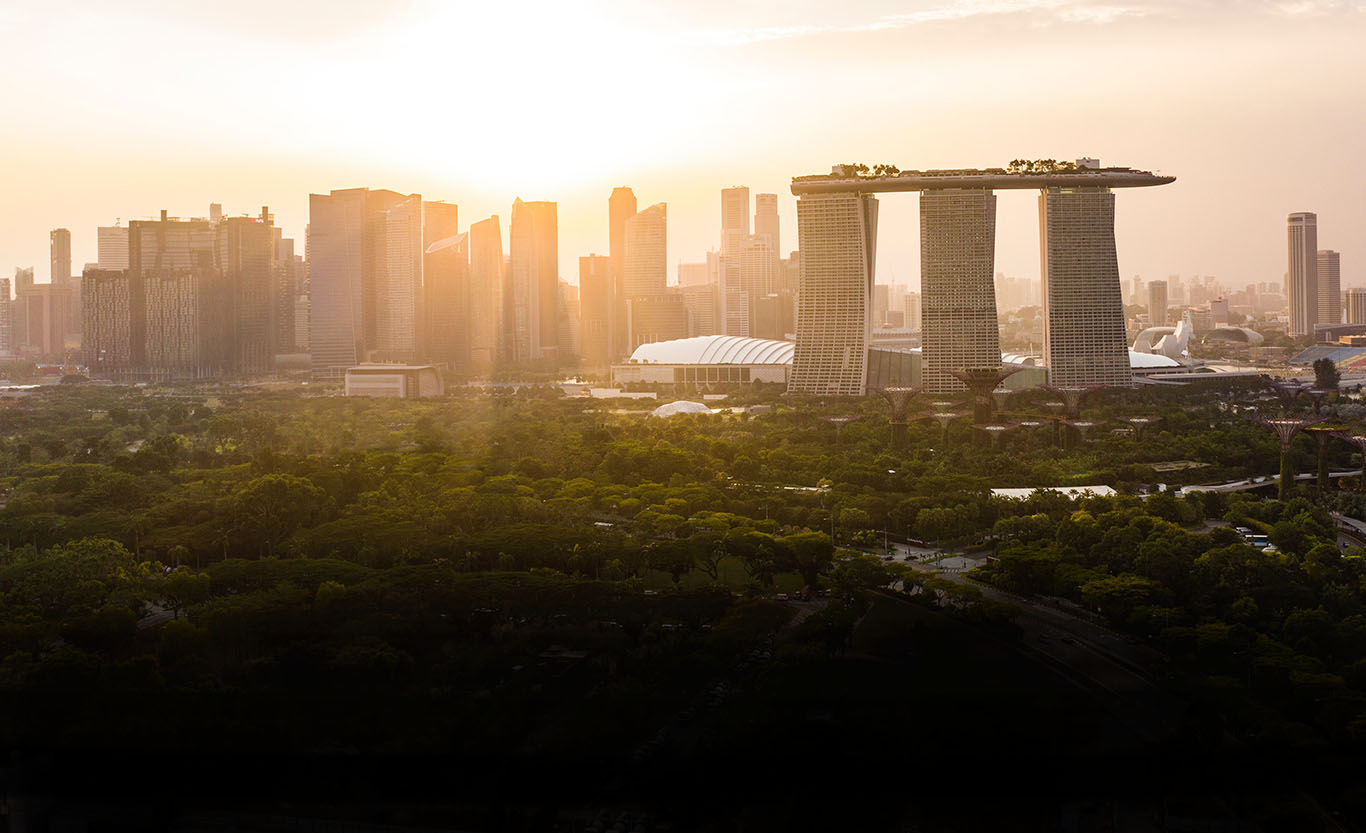
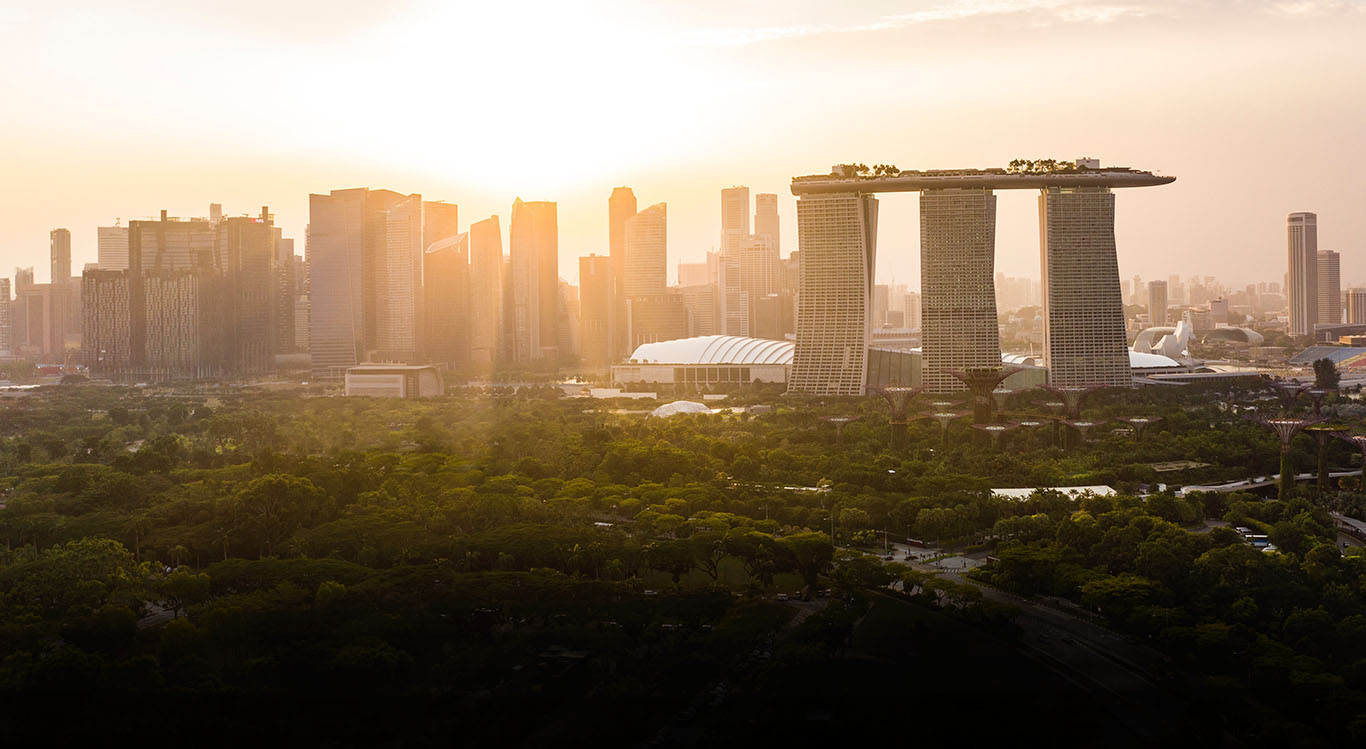
Populære destinationer sektion tilføjet

Changed region(s): [[0.0, 0.1842, 1.0, 0.8598]]

diff --git a/styles.css b/styles.css
@@ -11,6 +11,36 @@ a {
     text-decoration: none;
     color: #b5ff90;
 }
+h1 {
+    font-size: 65px;
+    text-transform: uppercase;
+    margin-bottom: 0;
+    font-weight: 300;
+}
+
+h2 {
+    font-weight: 300;
+    font-size: 35px;
+    text-transform: uppercase;
+    text-align: center;
+    
+}
+
+h3 {
+    font-size: 35px;
+    font-weight: 300;
+    margin: 0;
+    
+}
+
+hr {
+    width: 200px;
+    height: 3px;
+    border: 0;
+    border-top: 3px solid #b5ff90;
+    margin-top: 0;
+    margin-left: 320px;
+}
 
 /*HEADER*/
 header { 
@@ -48,9 +78,9 @@ nav a {
 /*FORSIDE*/
 
 #forside_singapore { 
-    height: 900px;
+    height: 750px;
     background-image: url(images/singapore_forside.jpg);
-    background-size: 1366px auto;
+    background-size: 100% auto;
     background-repeat: no-repeat;
 }
 
@@ -63,12 +93,7 @@ top: 250px;
 left: 100px;
 }
 
-h1 {
-    font-size: 65px;
-    text-transform: uppercase;
-    margin-bottom: 0;
-    font-weight: 300;
-}
+
 
 #forside_singapore_tekst p {
     width: 20%;
@@ -83,5 +108,87 @@ h1 {
     font-size: 16px;
     margin-top: 30px;
     
+    
+}
+
+/*POPULÆRE DESTINATIONER*/
+
+.tre_kort {
+    display: flex;
+    justify-content: space-between;
+}
+
+.tre_kort a {
+    color: white;
+}
+#kort_norge {
+    background-image: url(images/norge.png);
+    background-size: cover;
+    background-repeat: no-repeat;
+   width: 65%;
+   margin-top: 75px;
+   margin-right: 45px;
+
+}
+
+.tre_kort_stor_tekst {
+    position: relative;
+    top: 430px;
+    left:200px;
+}
+.tre_kort_stor_tekst h3 {
+    font-size: 45px;
+
+}
+#kort_norge hr {
+    position: relative;
+    top: 435px;
+    right: 350px;
+    width: 310px;
+}
+
+#kort_australien {
+    background-image: url(images/australien.png);
+    background-repeat: no-repeat;
+    background-size: cover;
+    flex-wrap: wrap;
+    width: 500px;
+    height: 320px;
+    margin-top: 100px;
+    
+
+}
+#kort_groenland {
+    background-image: url(images/groenland.jpg);
+    background-repeat: no-repeat;
+    background-size: cover;
+    flex-wrap: wrap;
+    width: 500px;
+    height: 320px;
+    margin-top: 25px;
+
+}
+
+.tre_kort p {
+    width: 200px;
+    font-size: 13px;
+    margin: 0;
+}
+
+.to_kort_tekst {
+    border-left: 3px solid #b5ff90;
+    position: relative;
+    top: 135px;
+    padding-left: 10px;
+    margin-left: 20px;
+}
+
+
+
+/*MEST LÆSTE*/
+
+
+.mest_læste {
+    height: 900px;
     
 }

diff --git a/index.html b/index.html
@@ -26,6 +26,8 @@
         
     </header>
     <main>
+
+    <!-- 1. SEKTION OM SINGAPORE -->
         <section id="forside_singapore">
             <div id="forside_singapore_tekst">
                 <h1>Singapore</h1>
@@ -40,8 +42,46 @@
                 </div></a>
 
             </div>
+    <!-- 2. SEKTION OM POPULÆRE DESTINATIONER -->
+        </section>
+         <h2>Populære destinationer<hr></h2>
+        <section class="tre_kort">
+          
+            <div id="kort_norge">
+                <div class="tre_kort_stor_tekst">
+                    <a href="#"><h3>Norge</h3>
+                    <p>Essensen af Norges appel er utrolig simple: 
+                    dette er et af de smukkeste lande i verden. </p> 
+                    </a>
+                </div>
+                 <hr>
+            </div>
+            <div class="to_kort">
+                <div id="kort_australien">
+                    <div class="to_kort_tekst">
+                        <a href="#"><h3>Australien</h3>
+                        <p>Stedet hvor verdens ældste kulture, deler vide 
+                        sletter, vild natur og utrolige blå kyster med 
+                        nyankomne fra hele verden.
+                        </a>
+                        </p>
+                    </div>
+            </div>
+                <div id="kort_groenland">
+                    <div class="to_kort_tekst">
+                        <a href="#"><h3>Grønland</h3>
+                        <p>Det er ikke en billig destination, men få steder har denne 
+                        kombination af fantastiske landskaber, lys og rå naturkraft.</p>
+                        </a>
+                    </div>  
+                </div>
+            </div>
 
         </section>
+
+    <!-- 3. SEKTION OM MEST LÆSTE -->
+
+        <section class="mest_læste"></section>
 
     </main>
     <footer>
